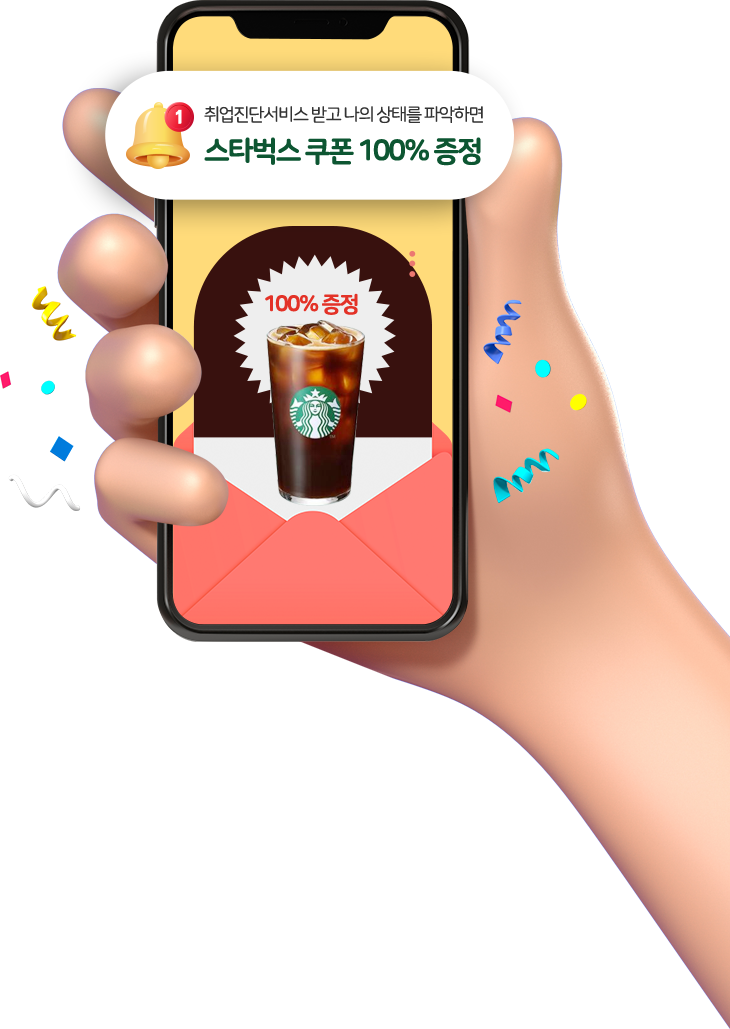
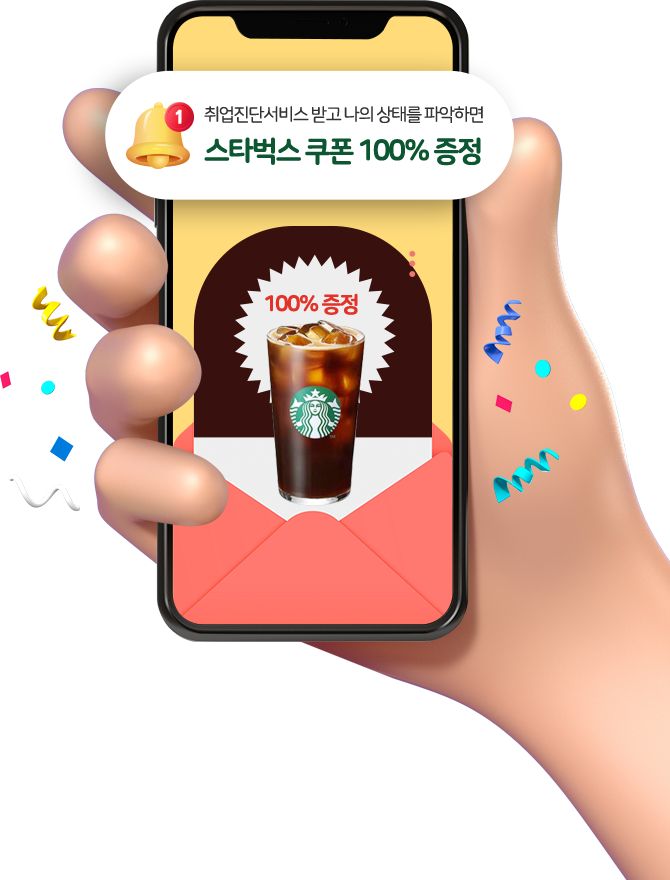
.

diff --git a/html/event/ev08.html b/html/event/ev08.html
@@ -103,8 +103,10 @@
             right: 0;
             bottom: 0;
             width: 670px;
-            height: 800px;
+            height: 880px;
             background: url(./images/ev08/cont01_img01.png) no-repeat;
+            background-size: contain;
+            font-size: 0;
             overflow: hidden;
         }
         .ev08_wrap .cont01 .imgWrap .moImg {
